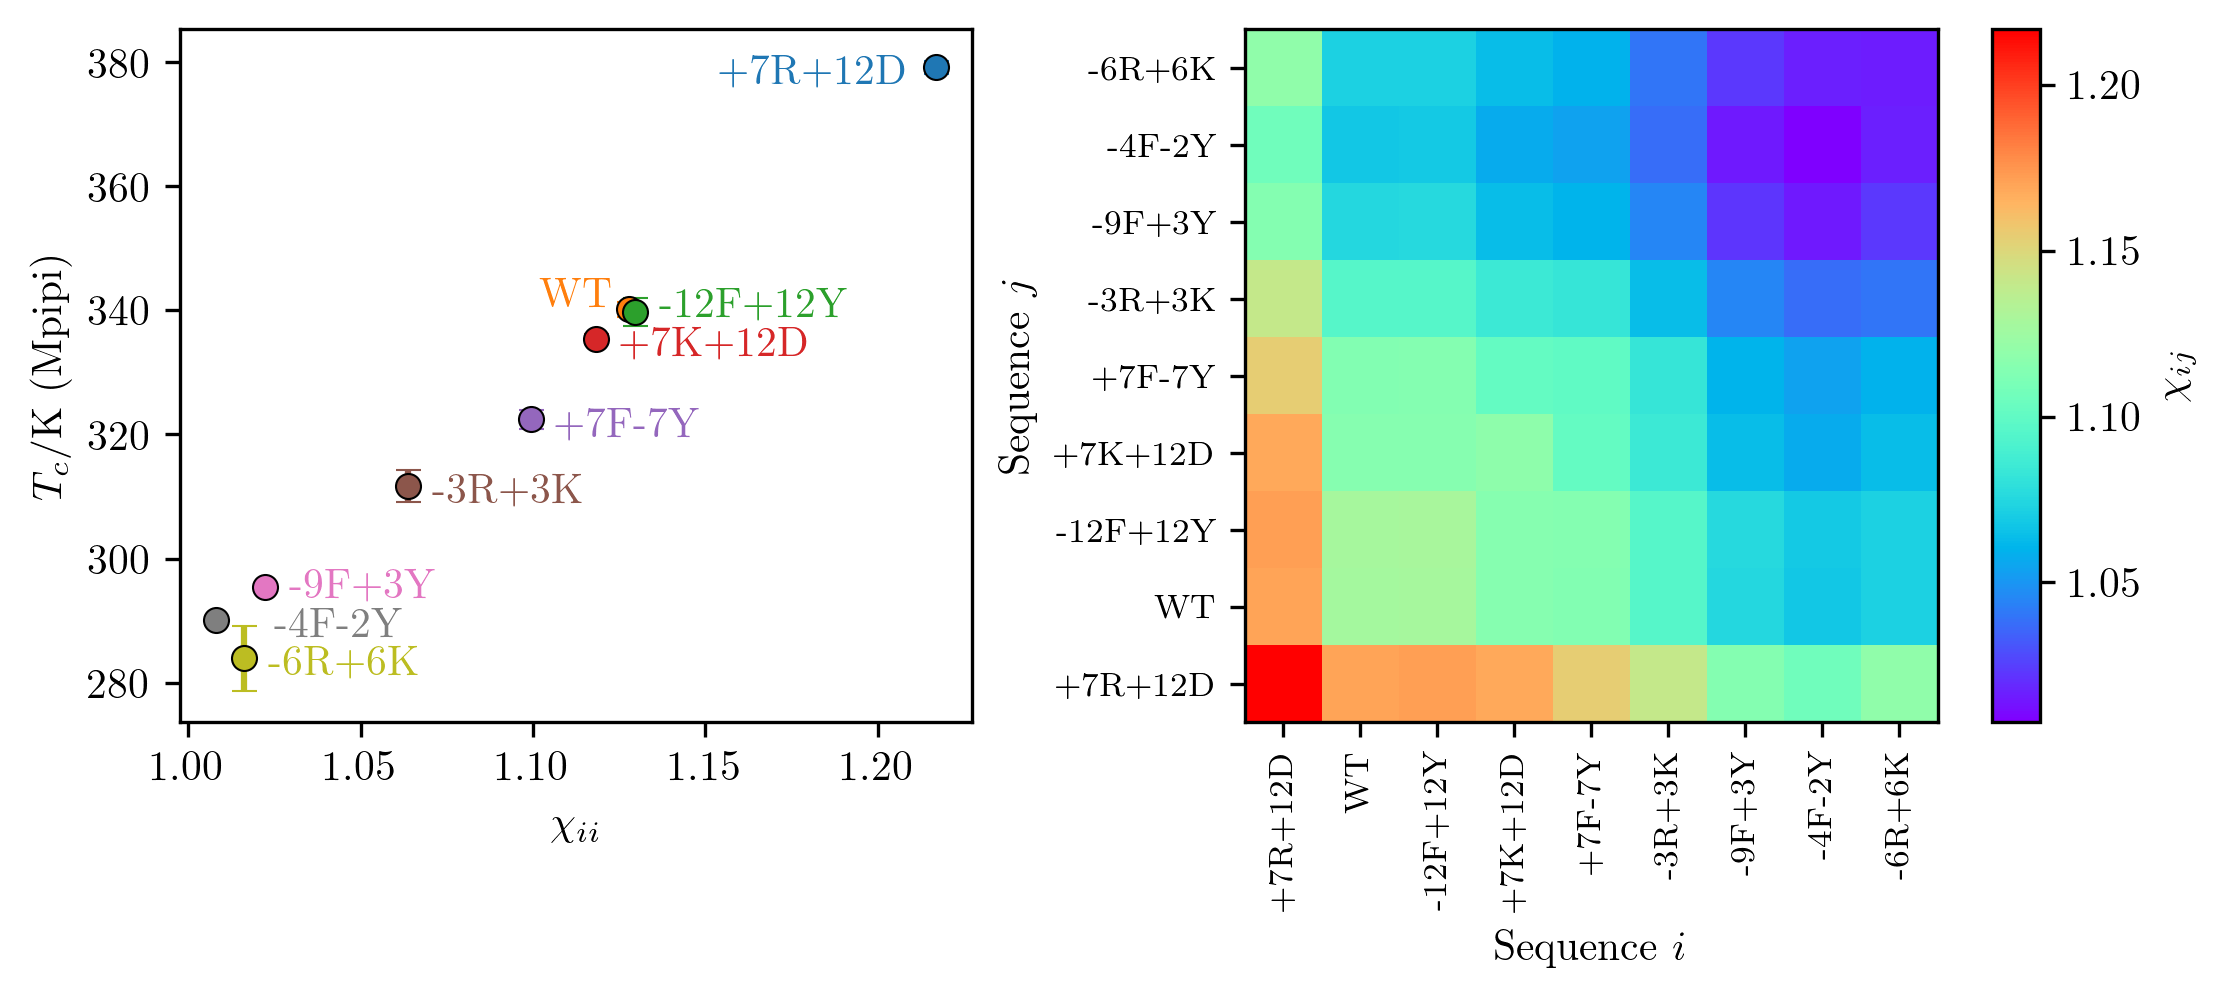
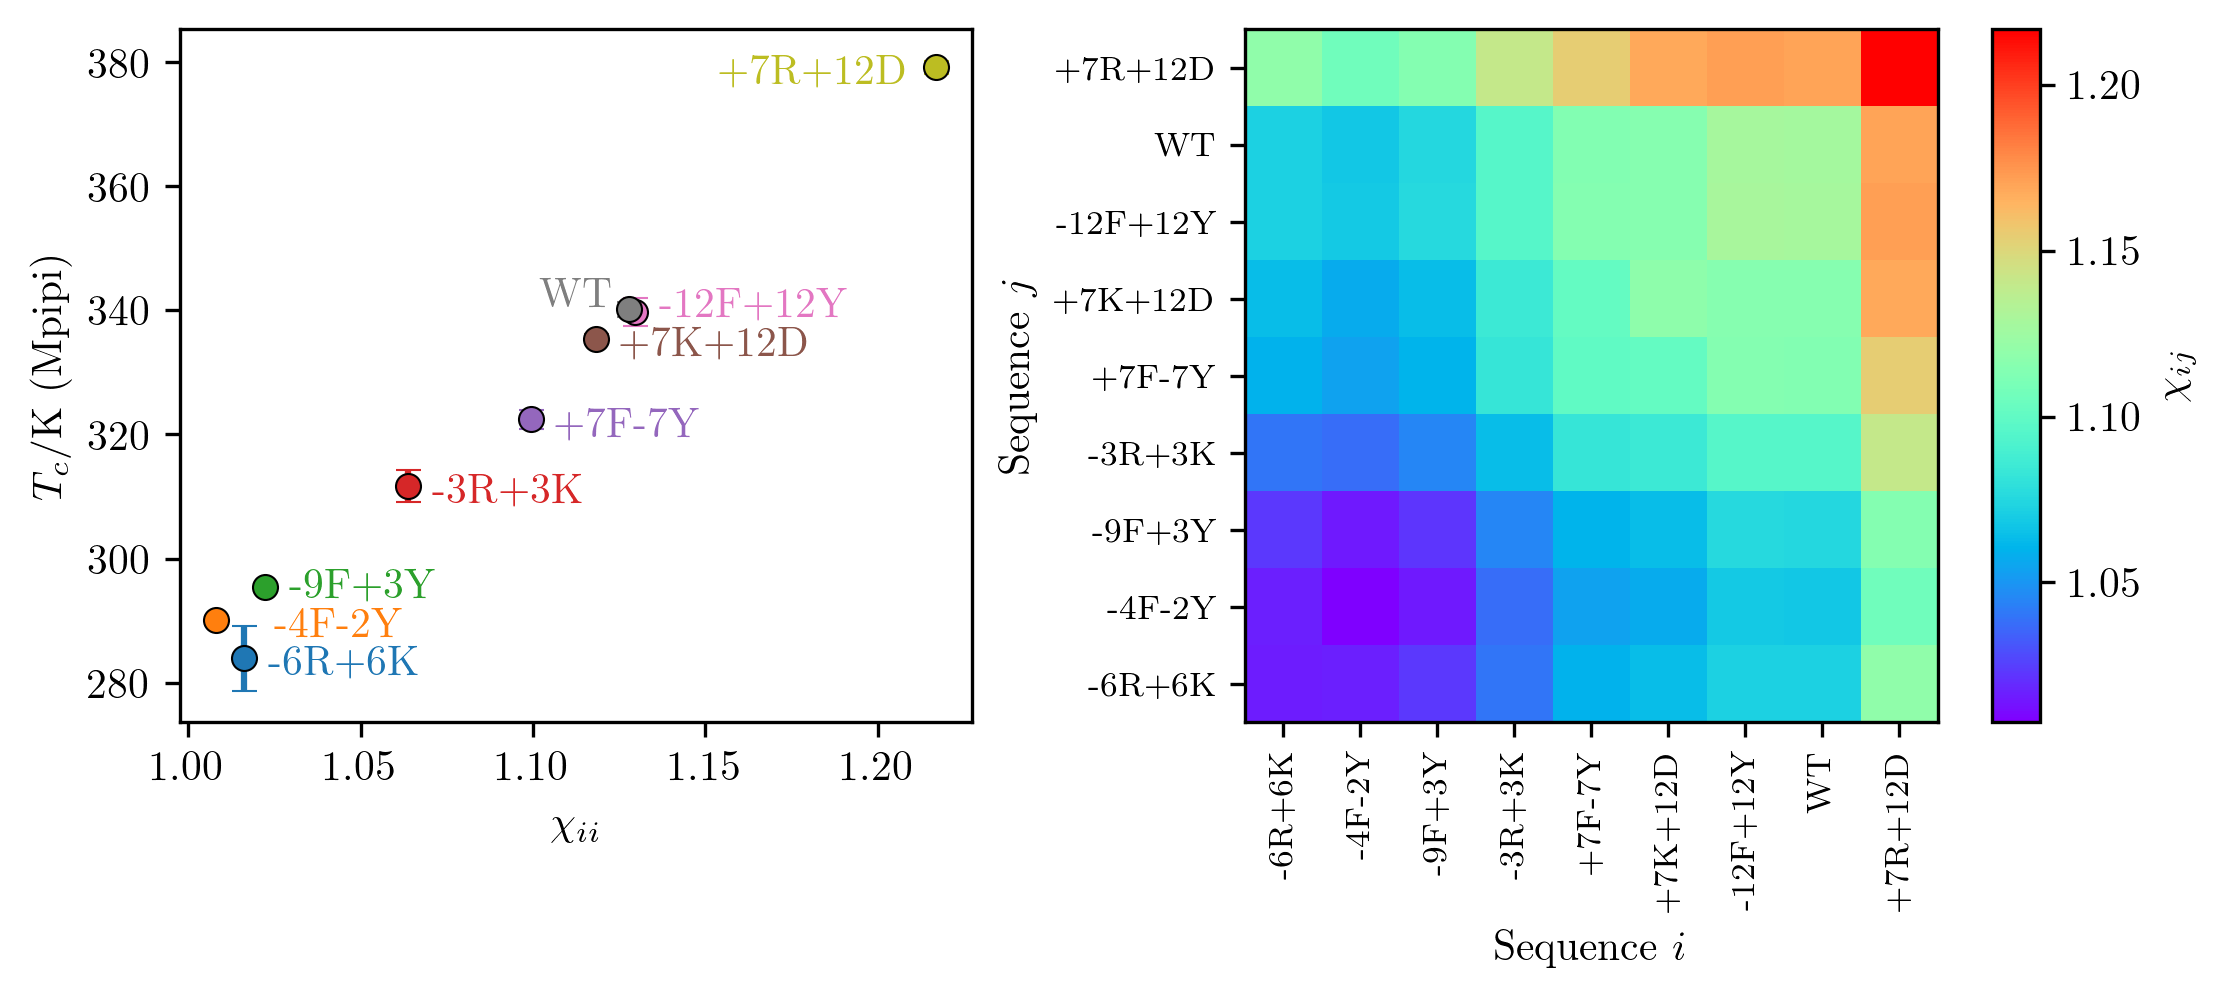
reversed sequence order

diff --git a/example_2.py b/example_2.py
@@ -56,7 +56,7 @@ seqs['-12F+12Y']=   'MASASSSQRG'+'RSGSGNYGGG'+'RGGGYGGNDN'+'YGRGGNYSGR'+'GGYGGSR
 #seq_names = list(seqs.keys()) # All sequence names
 
 # Order seq_names according to T_c
-idx = np.argsort( np.array(list(Tc_sim.values())) )[::-1]
+idx = np.argsort( np.array(list(Tc_sim.values())) )
 seq_names = np.array(list(Tc_sim.keys()))[idx]
 
 ######################################################################
